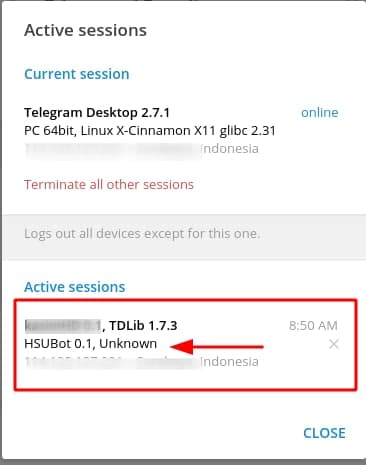
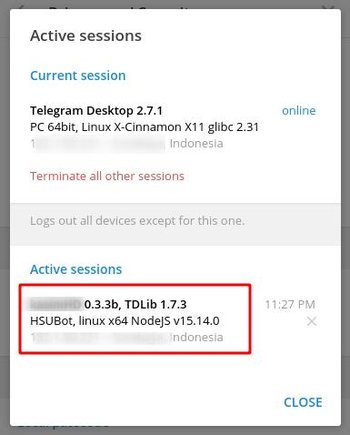
update readme

diff --git a/README.md b/README.md
@@ -22,8 +22,8 @@ Untuk melihat [history versi](https://github.com/banghasan/hsubot/blob/main/doc/
 
 ## Penampilan
 
-![command](https://raw.githubusercontent.com/banghasan/hsubot/main/screenshot/hsubot.jpg)
 ![stats](https://raw.githubusercontent.com/banghasan/hsubot/main/screenshot/stats.jpg)
+![session](https://raw.githubusercontent.com/banghasan/hsubot/main/screenshot/session.jpg)
 
 ## Menjalankan
 

diff --git a/doc/plugins.md b/doc/plugins.md
@@ -51,4 +51,8 @@ Terakhir jangan lupa di `module.exports`
 
 ## Next
 
-Format ini akan masih berkembang sesuai kebutuhan.
+Format ini masih berkembang sesuai kebutuhan untuk keperluan yang lebih kompleks.
+
+Masih ada beberapa fitur yang belum diimplementasikan dalam struktur ini. Namun, bisa dipastikan tidak akan jauh berbeda.
+
+Agar dipantau halaman ini yak ^^
